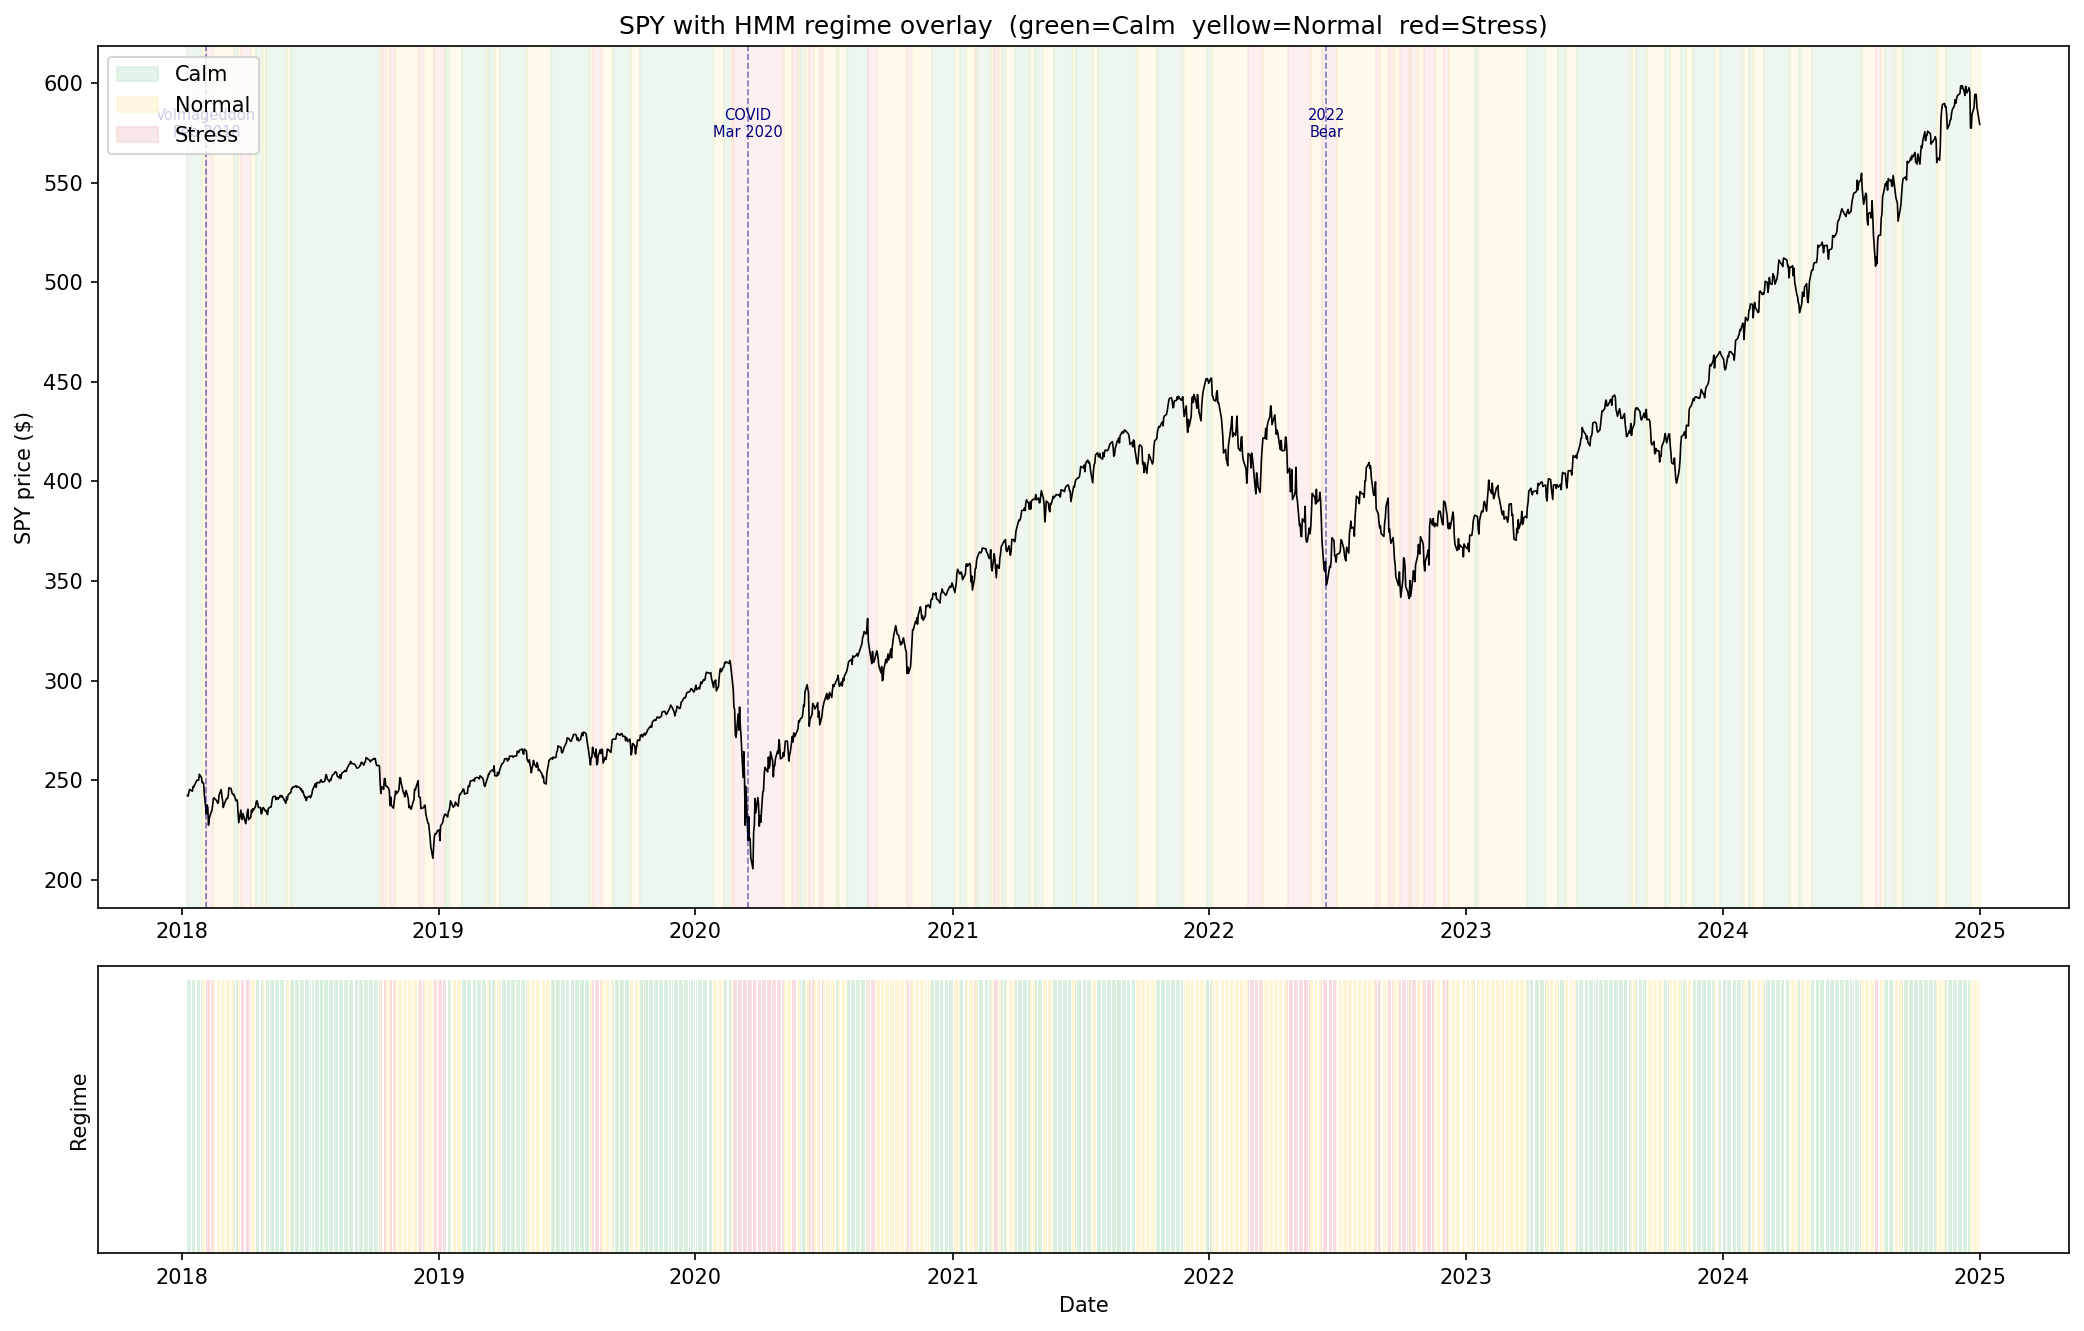
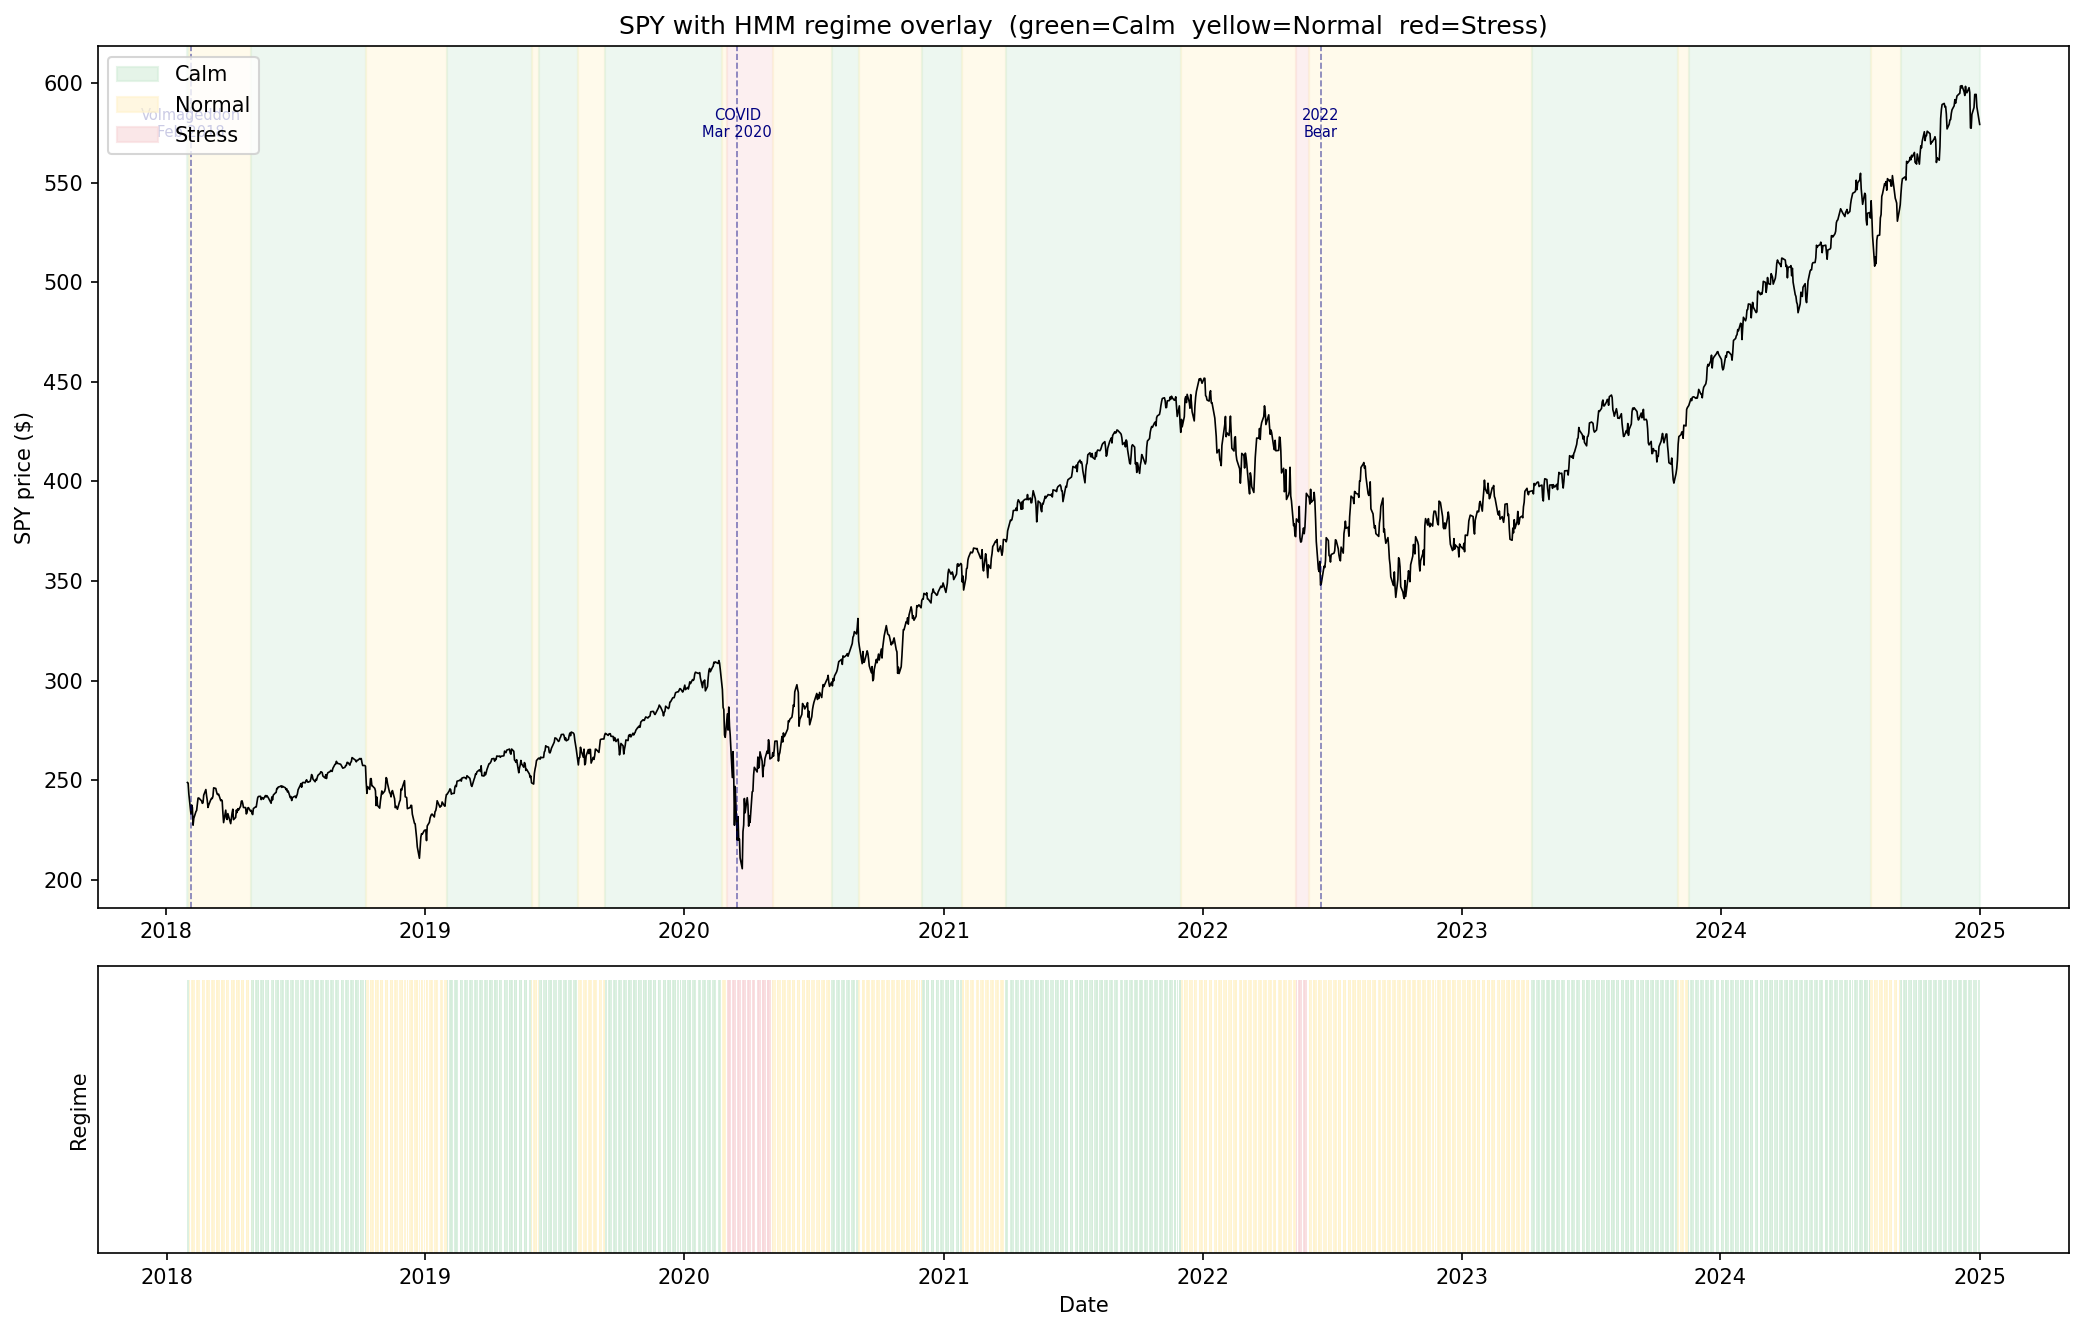
HMM updated

diff --git a/hmm_validate.py b/hmm_validate.py
@@ -1,0 +1,174 @@
+"""
+HMM visual + statistical validation
+Run: python hmm_validate.py
+"""
+
+import numpy as np
+import pandas as pd
+import matplotlib
+matplotlib.use('Agg')
+import matplotlib.pyplot as plt
+import matplotlib.patches as mpatches
+import yfinance as yf
+
+from raits.hmm import HMMEngine, HMM_STATES, CALM, NORMAL, STRESS
+
+# ── Load data and fit ─────────────────────────────────────────────────────────
+print("Downloading SPY (2018–2025)...")
+spy = yf.download('SPY', start='2018-01-01', end='2025-01-01',
+                  auto_adjust=True, progress=False)['Close'].dropna().squeeze()
+
+print(f"Fitting HMM on {len(spy)} days (n_init=10, ~30–60 seconds)...")
+engine = HMMEngine(n_iter=200, n_init=10)
+engine.fit(spy, save=False)
+
+states       = engine.predict_sequence(spy)
+state_series = pd.Series(states, index=spy.index[len(spy) - len(states):])
+spy_aligned  = spy.loc[state_series.index]
+
+# ── Plot 1: Price chart with regime background ────────────────────────────────
+fig, axes = plt.subplots(2, 1, figsize=(14, 9),
+                         gridspec_kw={'height_ratios': [3, 1]})
+
+ax = axes[0]
+colors = {CALM: '#d4edda', NORMAL: '#fff3cd', STRESS: '#f8d7da'}
+labels = {CALM: 'Calm', NORMAL: 'Normal', STRESS: 'Stress'}
+
+prev_state = None
+start_date = None
+for date, state in state_series.items():
+    if state != prev_state:
+        if prev_state is not None:
+            ax.axvspan(start_date, date, color=colors[prev_state], alpha=0.4)
+        start_date = date
+        prev_state = state
+ax.axvspan(start_date, state_series.index[-1],
+           color=colors[prev_state], alpha=0.4)
+
+ax.plot(spy_aligned.index, spy_aligned.values, 'k-', linewidth=0.8)
+ax.set_ylabel('SPY price ($)')
+ax.set_title('SPY with HMM regime overlay  (green=Calm  yellow=Normal  red=Stress)')
+
+patches = [mpatches.Patch(color=colors[i], alpha=0.6, label=labels[i])
+           for i in range(3)]
+ax.legend(handles=patches, loc='upper left')
+
+events = {
+    'Volmageddon\nFeb 2018': '2018-02-05',
+    'COVID\nMar 2020':       '2020-03-16',
+    '2022\nBear':            '2022-06-16',
+}
+for label, date in events.items():
+    matches = spy_aligned.index[spy_aligned.index.strftime('%Y-%m-%d') == date]
+    if len(matches):
+        ax.axvline(matches[0], color='navy', linewidth=0.8,
+                   linestyle='--', alpha=0.5)
+        ax.text(matches[0], ax.get_ylim()[1] * 0.95, label,
+                fontsize=7, color='navy', ha='center', va='top')
+
+# ── Plot 2: Regime strip ──────────────────────────────────────────────────────
+ax2 = axes[1]
+ax2.bar(state_series.index, np.ones(len(state_series)),
+        color=[colors[s] for s in state_series], width=1.5, alpha=0.8)
+ax2.set_ylabel('Regime')
+ax2.set_yticks([])
+ax2.set_xlabel('Date')
+
+plt.tight_layout()
+plt.savefig('hmm_regimes.png', dpi=150, bbox_inches='tight')
+print("Chart saved: hmm_regimes.png")
+plt.close()
+
+# ── Statistical validation ────────────────────────────────────────────────────
+log_returns   = np.log(spy_aligned / spy_aligned.shift(1)).dropna()
+state_aligned = state_series.loc[log_returns.index]
+
+print("\n" + "=" * 62)
+print("REGIME STATISTICS  (this is how you verify correctness)")
+print("=" * 62)
+print(f"\n{'Metric':<28} {'Calm':>10} {'Normal':>10} {'Stress':>10}")
+print("─" * 62)
+
+stats = {}
+for idx in [CALM, NORMAL, STRESS]:
+    mask = state_aligned == idx
+    rets = log_returns[mask]
+    stats[idx] = {
+        'days':     mask.sum(),
+        'pct':      mask.mean(),
+        'mean_ret': rets.mean() * 252,
+        'vol':      rets.std() * np.sqrt(252),
+        'sharpe':   (rets.mean() / rets.std() * np.sqrt(252))
+                    if rets.std() > 0 else 0,
+        'worst_day': rets.min(),
+        'worst_5':   rets.nsmallest(5).mean(),
+    }
+
+def row(label, key, fmt):
+    vals = [stats[i][key] for i in [CALM, NORMAL, STRESS]]
+    print(f"  {label:<26}" + "".join(f"{fmt.format(v):>10}" for v in vals))
+
+row("Trading days",     'days',     '{:.0f}')
+row("% of all days",    'pct',      '{:.1%}')
+row("Ann. return",      'mean_ret', '{:.1%}')
+row("Ann. volatility",  'vol',      '{:.1%}')
+row("Sharpe ratio",     'sharpe',   '{:.2f}')
+row("Worst single day", 'worst_day','{:.2%}')
+row("Avg worst 5 days", 'worst_5',  '{:.2%}')
+
+# ── Check 1: Volatility ordering ──────────────────────────────────────────────
+print()
+print("Check 1 — Volatility must increase:  Calm < Normal < Stress")
+cv, nv, sv = stats[CALM]['vol'], stats[NORMAL]['vol'], stats[STRESS]['vol']
+vol_ok = cv < nv < sv
+print(f"  Calm={cv:.1%}  Normal={nv:.1%}  Stress={sv:.1%}"
+      f"  →  {'PASS' if vol_ok else 'FAIL — model has a problem'}")
+
+# ── Check 2: Stress tail much worse than Calm ─────────────────────────────────
+print()
+print("Check 2 — Stress worst days must be much worse than Calm (expect 3x+)")
+# Both worst_5 values are negative; dividing two negatives gives a positive ratio.
+# e.g. Stress avg worst 5 = -8% / Calm avg worst 5 = -1.4%  →  ratio = 5.7x
+calm_w5   = stats[CALM]['worst_5']
+stress_w5 = stats[STRESS]['worst_5']
+if calm_w5 != 0:
+    ratio = stress_w5 / calm_w5          # positive number (neg / neg)
+    tail_ok = ratio >= 3.0
+    print(f"  Stress avg worst 5 / Calm avg worst 5 = {ratio:.1f}x"
+          f"  →  {'PASS' if tail_ok else 'FAIL — regimes not well separated'}")
+else:
+    print("  Cannot compute ratio (Calm worst_5 = 0)")
+    tail_ok = False
+
+# ── Check 3: Transition matrix persistence ────────────────────────────────────
+print()
+print("Check 3 — Regimes must be sticky (diagonal > 85%)")
+trans      = engine.model.transmat_
+persist_ok = True
+for i in range(3):
+    stay = trans[i, i]
+    ok   = stay > 0.85
+    if not ok:
+        persist_ok = False
+    print(f"  P({HMM_STATES[i]:6s} → {HMM_STATES[i]:6s}) = {stay:.1%}"
+          f"  →  {'PASS' if ok else 'FAIL — too jumpy'}")
+
+# ── Summary ───────────────────────────────────────────────────────────────────
+from raits.hmm.state_sorting import validate_state_order
+ordered  = validate_state_order(engine.model)
+all_ok   = vol_ok and tail_ok and persist_ok and ordered
+
+print()
+print("=" * 62)
+print("SUMMARY")
+print("=" * 62)
+print(f"  Volatility ordered (Calm<Normal<Stress) : {'PASS' if vol_ok     else 'FAIL'}")
+print(f"  Stress tail 3x+ worse than Calm         : {'PASS' if tail_ok    else 'FAIL'}")
+print(f"  Regimes sticky (diag > 85%)             : {'PASS' if persist_ok else 'FAIL'}")
+print(f"  State variance ordering valid           : {'PASS' if ordered    else 'FAIL'}")
+print()
+if all_ok:
+    print("  OVERALL: PASS — HMM validated, ready for Weeks 6-8")
+else:
+    print("  OVERALL: ISSUES FOUND — paste output for diagnosis")
+print("=" * 62)

diff --git a/raits/hmm/features.py b/raits/hmm/features.py
@@ -34,7 +34,7 @@ logger = logging.getLogger(__name__)
 # ---------------------------------------------------------------------------
 
 ANNUALISATION_FACTOR = np.sqrt(252)      # Daily → annual vol
-DEFAULT_VOL_WINDOW = 5                   # Rolling realised vol lookback (days)
+DEFAULT_VOL_WINDOW = 20             # Rolling realised vol lookback (days)
 MIN_OBSERVATIONS = 30                    # Minimum rows to build a valid matrix
 
 # Number of initial rows that will be NaN due to rolling windows — must be
